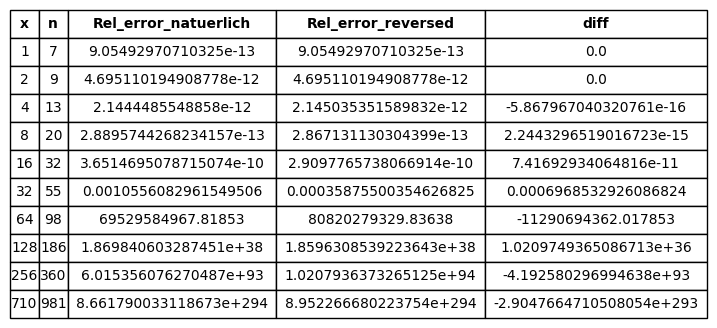
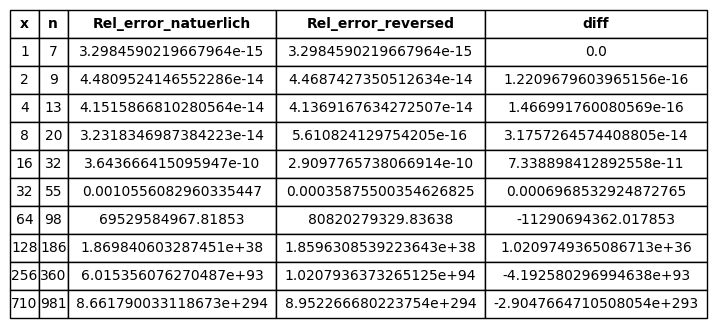
meeting Gerold

diff --git a/utils.py b/utils.py
@@ -9,7 +9,7 @@ from mpmath import mp
 def sinTaylor(x, n):
     """Taylor expansion of sin(x) with n terms"""
     sum = 0
-    for i in range(n):
+    for i in range(n+1):
         #print(i)
         sum += pow(-1, i) * pow(x, (2 * i + 1)) / math.factorial(2 * i + 1)
     return sum
@@ -26,14 +26,17 @@ def sinTaylorReversed(x_values, n_values):
     sum = []
     for k, x in enumerate(x_values):
         if x == 0 or x==np.pi or x==2*np.pi:
-            res = 0
+            res = 0.0
         else:
             n = n_values[k]
-            res = 0
-            for i in range(n):
-                j = n-i-1
+            res = 0.0
+            for i in range(n+1):
+                j = n-i
                 #print(j)
-                res += pow(-1, j) * pow(x, (2 * j + 1)) / math.factorial(2 * j + 1)
+                #use mpmath module with 16 precsision bc otherwise int to large to convert to float
+                #fact = math.factorial(2 * j + 1)
+                fact = mp.factorial(2 * j + 1)      
+                res += pow(-1, j) * pow(x, (2 * j + 1)) / fact
         sum.append(res)
 
     if len(x_values) == 1:
@@ -99,26 +102,29 @@ def n_needed_for_accuracy(x_values, accuracy = 100*10e-16):
         return n_values, VF_values
 
 #Arg reduction code for 3.5
-def arg_redukt(x, result_multi = 1):
+def arg_redukt(x, result_multi = 1, prec = 25):
 
+    mp.prec = prec
+    pi = mp.pi
+    
     #check if x is not in [0,2pi]
-    if 2*np.pi <= x:
+    if 2*pi <= x:
         #calc modulo and reasign x
         #k = x % (2 * np.pi)
-        k = int(x/(2*np.pi))
+        k = int(x/(2*pi))
         #print(k)
-        r = x - 2*k*np.pi
+        r = x - 2*k*pi
         x=r
     elif x < 0:
         #swap signs of x and result_multi bc sin(x) = -sin(-x)
         return arg_redukt(-x, -1)
 
     #check if in [0,1pi] or [pi,2pi]
-    if x < np.pi:
+    if x < pi:
         x = x
-    elif np.pi <= x:
+    elif pi <= x:
         #project onto [0,1pi] and reverse result_multi 
-        x = x - np.pi
+        x = x - pi
         result_multi = result_multi * -1
     else:
         print("something didnt work out")

diff --git a/testarg.py b/testarg.py
@@ -4,33 +4,35 @@ import matplotlib.pyplot as plt     #for plots
 import utils                        #utils.py file containg functions defined by us
 import qol
 
+#Arg reduction code for 3.5
 def arg_redukt(x, result_multi = 1):
 
-    #checkif x is not in [0,2pi]
+    #check if x is not in [0,2pi]
     if 2*np.pi <= x:
         #calc modulo and reasign x
         #k = x % (2 * np.pi)
         k = int(x/(2*np.pi))
-        print(k)
+        #print(k)
         r = x - 2*k*np.pi
         x=r
     elif x < 0:
-        arg_redukt(-x, -1)
+        #swap signs of x and result_multi bc sin(x) = -sin(-x)
+        return arg_redukt(-x, -1)
 
     #check if in [0,1pi] or [pi,2pi]
     if x < np.pi:
         x = x
     elif np.pi <= x:
-        #something
+        #project onto [0,1pi] and reverse result_multi 
         x = x - np.pi
         result_multi = result_multi * -1
     else:
-        print("something fugged up")
-
-    return x , result_multi
+        print("something didnt work out")
+    #sin(x) = result_multi * sinTaylor(x,n)
+    return x , result_multi 
 
 if __name__ == "__main__":
-    x_vals = [ 2, 4, -7, 16, 2*np.pi, 3*np.pi, 10]
+    x_vals = [ 2, 4, 5.0929, -7, 16, 2*np.pi, 3*np.pi, 10]
 
     for x in x_vals:
         x_red, result_multi = arg_redukt(x)

diff --git a/3_6_ArgRedukt.py b/3_6_ArgRedukt.py
@@ -29,14 +29,14 @@ def calculate_errors_nat_rev(x_values, n_values, order = 'nat'):
     return errors
 
 if __name__ == "__main__":
-    savefig= 'figs/3_6.png'
+    savefig= 'CompNum2/figs/3_6.png'
     accuracy = 100*10e-16
     k_max = 8
 
     precision = 16
     mp.dps = precision
 
-    x_values = [2 ** k for k in range(k_max + 1)] + [710]
+    x_values = [2 ** k for k in range(k_max + 1)] + [ 710]
     n_values, VF = utils.n_needed_for_accuracy(x_values, accuracy)
 
     red_rel_error = []
@@ -44,12 +44,14 @@ if __name__ == "__main__":
     for i, x in enumerate(x_values):
         n = n_values[i]
         x_red, res_multi = utils.arg_redukt(x)
-        approx_value = res_multi*utils.sinTaylorReversed(x, n)
+        print(x)
+        print(x_red)
+        approx_value = res_multi*utils.sinTaylorReversed(x_red, n)
 
         #exact_value = math.sin(x)
         exact_value = mp.sin(x)
         #print(exact_value, " --- ", mp_value )
-        rel_error = abs(approx_value - exact_value) / abs(exact_value)
+        rel_error = abs((approx_value - exact_value) / exact_value)
 
         red_rel_error.append(rel_error)
 

diff --git a/3_4_RelFehlerRev.py b/3_4_RelFehlerRev.py
@@ -28,7 +28,7 @@ def calculate_errors_nat_rev(x_values, n_values, order = 'nat'):
     return errors
 
 if __name__ == "__main__":
-    savefig= 'figs/3_4.png'
+    savefig= 'CompNum2/figs/3_4.png'
     accuracy = 100*10e-16
     k_max = 8
 
